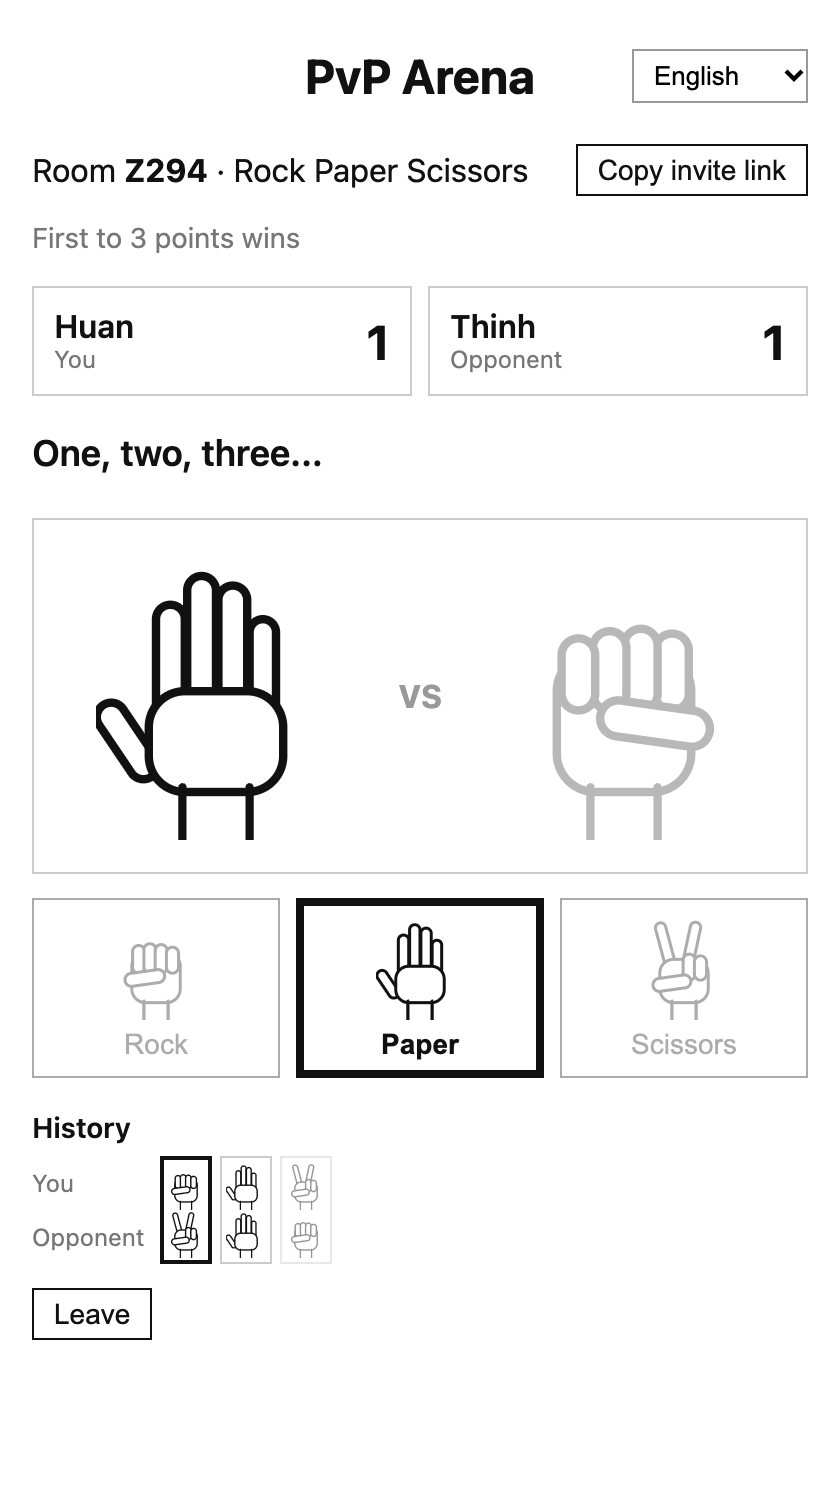
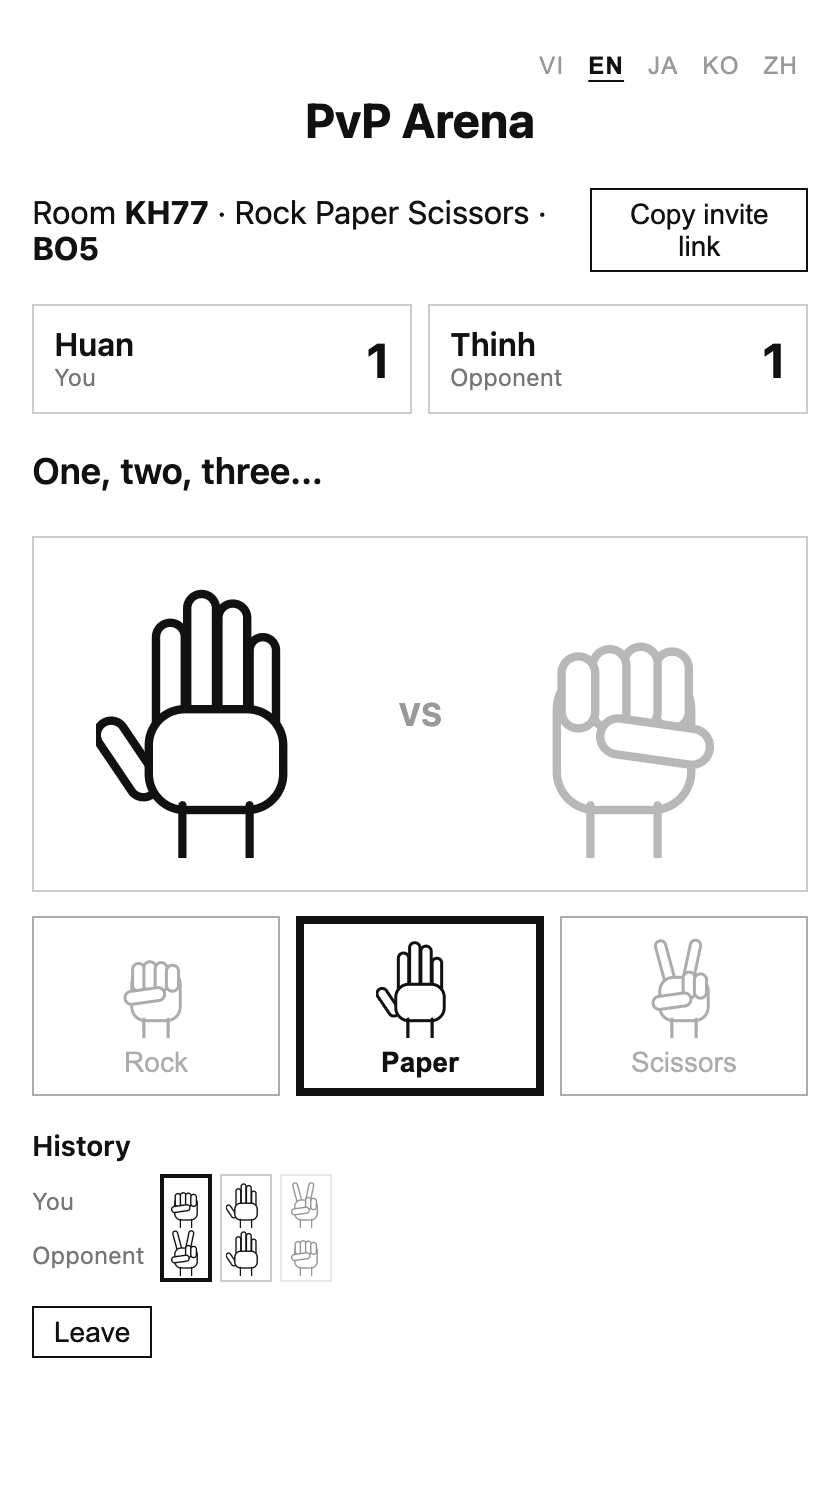
Best-of (BO) match format, compact language switcher

diff --git a/public/i18n.js b/public/i18n.js
@@ -10,14 +10,13 @@ export const LANGS = [
 const DICT = {
   vi: {
     yourName: 'Tên của bạn', namePh: 'Nhập tên', create: 'Tạo phòng', game: 'Trò chơi',
-    target: 'Chơi đến (điểm)', join: 'Vào phòng', roomCode: 'Mã phòng', codePh: 'VD: AB3K',
+    format: 'Thể thức', join: 'Vào phòng', roomCode: 'Mã phòng', codePh: 'VD: AB3K',
     room: 'Phòng', copyLink: 'Sao chép link mời', copied: 'Đã sao chép!', copyPrompt: 'Sao chép link này:',
     leave: 'Rời phòng', nextRound: 'Ván tiếp', newMatch: 'Trận mới', you: 'Bạn', opponent: 'Đối thủ',
     waiting: 'Đang chờ...', player: 'Người chơi {n}', ready: 'Đã chọn', lost: 'Mất kết nối, đang thử lại...',
     waitOpp: 'Đang chờ đối thủ vào phòng...', yourTurn: 'Tới lượt bạn', turnOf: 'Lượt của {name}',
     draw: 'Hòa!', winRound: 'Bạn thắng ván này!', loseRound: 'Bạn thua ván này!',
-    winMatch: 'Bạn thắng cả trận!', loseMatch: 'Bạn thua cả trận!', nextSoon: 'Ván mới sắp bắt đầu...',
-    firstTo: 'Ai đạt {n} điểm trước sẽ thắng', revealing: 'Một, hai, ba...', chooseMove: 'Chọn nước đi',
+    winMatch: 'Bạn thắng cả trận!', loseMatch: 'Bạn thua cả trận!', nextSoon: 'Ván mới sắp bắt đầu...', revealing: 'Một, hai, ba...', chooseMove: 'Chọn nước đi',
     waitingChoice: 'Đã chọn, chờ đối thủ...', oppReady: 'Đối thủ đã chọn xong, tới bạn!',
     history: 'Lịch sử', round: 'Ván',
     'err.noGame': 'Trò chơi không tồn tại', 'err.noRoom': 'Không tìm thấy phòng', 'err.full': 'Phòng đã đủ người',
@@ -32,14 +31,13 @@ const DICT = {
   },
   en: {
     yourName: 'Your name', namePh: 'Enter your name', create: 'Create room', game: 'Game',
-    target: 'Play to (points)', join: 'Join room', roomCode: 'Room code', codePh: 'e.g. AB3K',
+    format: 'Format', join: 'Join room', roomCode: 'Room code', codePh: 'e.g. AB3K',
     room: 'Room', copyLink: 'Copy invite link', copied: 'Copied!', copyPrompt: 'Copy this link:',
     leave: 'Leave', nextRound: 'Next round', newMatch: 'New match', you: 'You', opponent: 'Opponent',
     waiting: 'Waiting...', player: 'Player {n}', ready: 'Ready', lost: 'Connection lost, retrying...',
     waitOpp: 'Waiting for an opponent to join...', yourTurn: 'Your turn', turnOf: "{name}'s turn",
     draw: 'Draw!', winRound: 'You won this round!', loseRound: 'You lost this round!',
-    winMatch: 'You won the match!', loseMatch: 'You lost the match!', nextSoon: 'Next round starting...',
-    firstTo: 'First to {n} points wins', revealing: 'One, two, three...', chooseMove: 'Make your move',
+    winMatch: 'You won the match!', loseMatch: 'You lost the match!', nextSoon: 'Next round starting...', revealing: 'One, two, three...', chooseMove: 'Make your move',
     waitingChoice: 'Locked in, waiting for opponent...', oppReady: 'Opponent is ready, your move!',
     history: 'History', round: 'Round',
     'err.noGame': 'Game not found', 'err.noRoom': 'Room not found', 'err.full': 'Room is full',
@@ -54,14 +52,13 @@ const DICT = {
   },
   ja: {
     yourName: 'あなたの名前', namePh: '名前を入力', create: 'ルームを作成', game: 'ゲーム',
-    target: '先取ポイント', join: 'ルームに参加', roomCode: 'ルームコード', codePh: '例: AB3K',
+    format: '形式', join: 'ルームに参加', roomCode: 'ルームコード', codePh: '例: AB3K',
     room: 'ルーム', copyLink: '招待リンクをコピー', copied: 'コピーしました!', copyPrompt: 'このリンクをコピー:',
     leave: '退出', nextRound: '次のラウンド', newMatch: '新しい試合', you: 'あなた', opponent: '相手',
     waiting: '待機中...', player: 'プレイヤー{n}', ready: '選択済み', lost: '接続が切れました。再接続中...',
     waitOpp: '相手の参加を待っています...', yourTurn: 'あなたの番です', turnOf: '{name}の番です',
     draw: '引き分け!', winRound: 'このラウンドはあなたの勝ち!', loseRound: 'このラウンドはあなたの負け!',
-    winMatch: '試合に勝利!', loseMatch: '試合に敗北...', nextSoon: 'まもなく次のラウンド...',
-    firstTo: '{n}ポイント先取で勝利', revealing: 'せーの…', chooseMove: '手を選んでください',
+    winMatch: '試合に勝利!', loseMatch: '試合に敗北...', nextSoon: 'まもなく次のラウンド...', revealing: 'せーの…', chooseMove: '手を選んでください',
     waitingChoice: '選択済み。相手を待っています...', oppReady: '相手は選択済み。あなたの番!',
     history: '履歴', round: 'ラウンド',
     'err.noGame': 'ゲームが見つかりません', 'err.noRoom': 'ルームが見つかりません', 'err.full': 'ルームは満員です',
@@ -76,14 +73,13 @@ const DICT = {
   },
   ko: {
     yourName: '이름', namePh: '이름 입력', create: '방 만들기', game: '게임',
-    target: '목표 점수', join: '방 참가', roomCode: '방 코드', codePh: '예: AB3K',
+    format: '형식', join: '방 참가', roomCode: '방 코드', codePh: '예: AB3K',
     room: '방', copyLink: '초대 링크 복사', copied: '복사됨!', copyPrompt: '이 링크를 복사하세요:',
     leave: '나가기', nextRound: '다음 라운드', newMatch: '새 경기', you: '나', opponent: '상대',
     waiting: '대기 중...', player: '플레이어 {n}', ready: '선택 완료', lost: '연결이 끊겼습니다. 재연결 중...',
     waitOpp: '상대가 들어오길 기다리는 중...', yourTurn: '내 차례', turnOf: '{name}의 차례',
     draw: '무승부!', winRound: '이번 라운드 승리!', loseRound: '이번 라운드 패배!',
-    winMatch: '경기 승리!', loseMatch: '경기 패배!', nextSoon: '곧 다음 라운드가 시작됩니다...',
-    firstTo: '{n}점을 먼저 얻으면 승리', revealing: '하나, 둘, 셋...', chooseMove: '수를 선택하세요',
+    winMatch: '경기 승리!', loseMatch: '경기 패배!', nextSoon: '곧 다음 라운드가 시작됩니다...', revealing: '하나, 둘, 셋...', chooseMove: '수를 선택하세요',
     waitingChoice: '선택 완료. 상대를 기다리는 중...', oppReady: '상대가 선택했어요. 내 차례!',
     history: '기록', round: '라운드',
     'err.noGame': '게임을 찾을 수 없습니다', 'err.noRoom': '방을 찾을 수 없습니다', 'err.full': '방이 가득 찼습니다',
@@ -98,14 +94,13 @@ const DICT = {
   },
   zh: {
     yourName: '你的名字', namePh: '输入名字', create: '创建房间', game: '游戏',
-    target: '目标分数', join: '加入房间', roomCode: '房间号', codePh: '例如 AB3K',
+    format: '赛制', join: '加入房间', roomCode: '房间号', codePh: '例如 AB3K',
     room: '房间', copyLink: '复制邀请链接', copied: '已复制!', copyPrompt: '复制此链接:',
     leave: '离开', nextRound: '下一局', newMatch: '新比赛', you: '你', opponent: '对手',
     waiting: '等待中...', player: '玩家{n}', ready: '已出招', lost: '连接断开，正在重连...',
     waitOpp: '等待对手加入...', yourTurn: '轮到你了', turnOf: '轮到{name}',
     draw: '平局!', winRound: '你赢了这一局!', loseRound: '你输了这一局!',
-    winMatch: '你赢得了比赛!', loseMatch: '你输掉了比赛!', nextSoon: '下一局即将开始...',
-    firstTo: '先得{n}分者获胜', revealing: '一、二、三……', chooseMove: '请出招',
+    winMatch: '你赢得了比赛!', loseMatch: '你输掉了比赛!', nextSoon: '下一局即将开始...', revealing: '一、二、三……', chooseMove: '请出招',
     waitingChoice: '已出招，等待对手...', oppReady: '对手已出招，轮到你!',
     history: '历史', round: '局',
     'err.noGame': '游戏不存在', 'err.noRoom': '找不到房间', 'err.full': '房间已满',

diff --git a/public/app.js b/public/app.js
@@ -11,13 +11,20 @@ let gameUIKey = null;   // trò + mã phòng của module đang dùng
 let shownScore = null;  // tỉ số đang hiển thị (giữ nguyên khi hiệu ứng chưa chạy xong)
 
 // ---------- Ngôn ngữ ----------
-$('lang').innerHTML = LANGS.map(([code, name]) => `<option value="${code}">${name}</option>`).join('');
-$('lang').value = getLang();
-$('lang').onchange = () => {
-  setLang($('lang').value);
+function renderLang() {
+  $('lang').innerHTML = LANGS.map(([code, name]) =>
+    `<button class="${code === getLang() ? 'on' : ''}" data-lang="${code}" title="${name}">${code.toUpperCase()}</button>`
+  ).join('');
+}
+$('lang').onclick = (e) => {
+  const code = e.target.dataset.lang;
+  if (!code) return;
+  setLang(code);
+  renderLang();
   renderGameSelect();
   if (current) renderRoom();
 };
+renderLang();
 applyI18n();
 
 // ---------- Sảnh ----------
@@ -140,7 +147,7 @@ function renderRoom() {
   show('room');
   $('room-code').textContent = current.code;
   $('room-game').textContent = t('game.' + current.game);
-  $('target-info').textContent = t('firstTo', { n: target });
+  $('room-bo').textContent = 'BO' + current.bo;
 
   // Vẽ bàn chơi trước: module có thể bắt đầu hiệu ứng ra tay (busy).
   gameUI.render($('board'), state, waiting ? -1 : you, api, current);
@@ -168,7 +175,7 @@ function renderRoom() {
 $('create').onclick = () => {
   const options = {};
   document.querySelectorAll('[data-opt]').forEach((el) => (options[el.dataset.opt] = el.checked));
-  sendMsg({ type: 'create', game: $('game').value, name: myName(), target: +$('target').value, options });
+  sendMsg({ type: 'create', game: $('game').value, name: myName(), bo: +$('bo').value, options });
 };
 $('join').onclick = () => sendMsg({ type: 'join', code: $('code').value.trim().toUpperCase(), name: myName() });
 $('code').onkeydown = (e) => e.key === 'Enter' && $('join').click();

diff --git a/public/index.html b/public/index.html
@@ -9,10 +9,8 @@
 </head>
 <body>
   <main>
-    <header>
-      <h1>PvP Arena</h1>
-      <select id="lang" aria-label="Language"></select>
-    </header>
+    <nav id="lang" class="lang" aria-label="Language"></nav>
+    <h1>PvP Arena</h1>
     <p id="conn" class="conn" hidden></p>
 
     <section id="lobby" hidden>
@@ -25,8 +23,8 @@
         <label><span data-i18n="game"></span>
           <select id="game"></select>
         </label>
-        <label><span data-i18n="target"></span>
-          <input id="target" type="number" min="1" max="99" value="3">
+        <label><span data-i18n="format"></span>
+          <span class="bo"><span>BO</span><input id="bo" type="number" min="1" max="99" value="3"></span>
         </label>
         <div id="options"></div>
         <button id="create" data-i18n="create"></button>
@@ -43,10 +41,9 @@
 
     <section id="room" hidden>
       <div class="row">
-        <span><span data-i18n="room"></span> <strong id="room-code"></strong> · <span id="room-game"></span></span>
+        <span><span data-i18n="room"></span> <strong id="room-code"></strong> · <span id="room-game"></span> · <strong id="room-bo"></strong></span>
         <button id="copy" class="small" data-i18n="copyLink"></button>
       </div>
-      <p id="target-info" class="muted"></p>
       <div id="players" class="players"></div>
       <p id="status" class="status"></p>
       <div id="board"></div>

diff --git a/server.js b/server.js
@@ -54,6 +54,7 @@ function broadcast(room) {
     names: room.names,
     connected: room.players.map((p) => p !== null),
     score: room.score,
+    bo: room.bo,
     target: room.target,
     options: room.options,
     autoNext: !!game.autoNext,
@@ -105,12 +106,15 @@ const handlers = {
     const game = games[msg.game];
     if (!game) return error(ws, 'noGame');
     leave(ws);
-    const target = Math.min(99, Math.max(1, parseInt(msg.target, 10) || 3));
+    // BOn: thắng khi đạt quá nửa số ván, ví dụ BO5 thì cần 3 điểm.
+    const bo = Math.min(99, Math.max(1, parseInt(msg.bo, 10) || 3));
+    const target = Math.floor(bo / 2) + 1;
     const options = readOptions(game, msg.options);
     const room = {
       code: newCode(),
       game,
       options,
+      bo,
       target,
       players: Array(game.players).fill(null),
       names: Array(game.players).fill(''),
@@ -125,7 +129,7 @@ const handlers = {
     room.names[0] = String(msg.name || '').slice(0, 20);
     rooms.set(room.code, room);
     ws.room = room;
-    console.log(`Tạo phòng ${room.code} (${game.id}, chơi đến ${target})`);
+    console.log(`Tạo phòng ${room.code} (${game.id}, BO${bo})`);
     broadcast(room);
   },
 

diff --git a/public/style.css b/public/style.css
@@ -13,18 +13,25 @@ main {
   padding: 24px 16px;
 }
 
-header { position: relative; margin-bottom: 20px; }
-h1 { font-size: 24px; margin: 0; text-align: center; }
-#lang {
-  position: absolute;
-  right: 0;
-  top: 50%;
-  transform: translateY(-50%);
-  width: auto;
-  margin: 0;
-  padding: 4px 6px;
-  font-size: 13px;
+h1 { font-size: 24px; margin: 0 0 20px; text-align: center; }
+
+/* Chọn ngôn ngữ */
+.lang { display: flex; justify-content: flex-end; gap: 2px; margin-bottom: 4px; }
+.lang button {
+  background: none;
+  border: none;
+  color: #999;
+  font-size: 12px;
+  padding: 2px 5px;
+  letter-spacing: 0.05em;
 }
+.lang button:hover:not(:disabled) { background: none; color: #111; }
+.lang button.on { color: #111; font-weight: 700; text-decoration: underline; text-underline-offset: 3px; }
+
+/* Ô nhập BO */
+.bo { display: flex; align-items: stretch; margin-top: 4px; }
+.bo span { display: flex; align-items: center; padding: 0 10px; border: 1px solid #999; border-right: none; font-weight: 700; background: #f2f2f2; }
+.bo input { margin-top: 0; }
 h2 { font-size: 16px; margin: 0 0 12px; }
 
 .muted { color: #777; font-size: 14px; margin: 0; }

diff --git a/README.md b/README.md
@@ -17,7 +17,7 @@ Play head-to-head games with a friend, right in the browser.
 | Rock Paper Scissors | 2 | Both pick at the same time. Rock beats scissors, scissors beat paper, paper beats rock. |
 | Load, Shield, Shoot | 2 | Both pick at the same time each turn. Load adds a bullet. Shield blocks every shot. Shoot spends a bullet and hits if your opponent is loading. Two shots cancel out. Whoever gets hit loses the round. |
 
-When you create a room you choose how many points win the match.
+When you create a room you pick the match format, such as BO3 or BO5. In a BO5 the first player to win 3 rounds takes the match.
 Rock Paper Scissors also lets you show or hide the move history.
 
 Hand games play a short "one, two, three" shake before both hands are revealed, just like playing in person.
@@ -59,7 +59,7 @@ It prints a link like `https://something.trycloudflare.com`.
 
 **3. Play:**
 
-1. Open the link, enter your name, pick a game and the target score, then click **Create room**.
+1. Open the link, enter your name, pick a game and the format (BO3, BO5...), then click **Create room**.
 2. Click **Copy invite link** and send it to your friend.
 3. Your friend opens the link, enters a name and clicks **Join room**.
 
